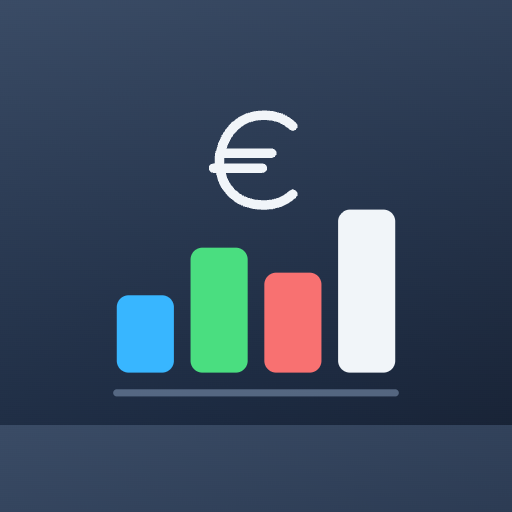
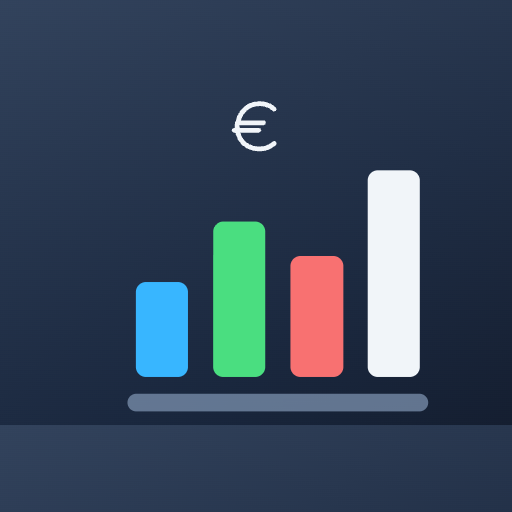
Mantener las proporciones del icono original de Finanzas

Changed region(s): [[0.2188, 0.1875, 0.8438, 0.8125]]

diff --git a/sw.js b/sw.js
@@ -2,19 +2,19 @@
 // y también sin conexión. Los datos (Firestore), el login (Google) y las cotizaciones (prices.json) nunca pasan por aquí.
 //
 // Sube la versión de CACHE cada vez que cambie la lista PRECACHE (por ejemplo al actualizar Chart.js o Firebase).
-const CACHE = "finanzas-v9";
+const CACHE = "finanzas-v10";
 const PRECACHE = [
   "./",
   "./index.html",
   "./firebase-config.js",
   "./push-config.js",
-  "./manifest.webmanifest?v=9",
+  "./manifest.webmanifest?v=10",
   "./icon-192.png",
-  "./icon-192.png?v=9",
-  "./icon-512.png?v=9",
-  "./icon-maskable.png?v=9",
+  "./icon-192.png?v=10",
+  "./icon-512.png?v=10",
+  "./icon-maskable.png?v=10",
   "./badge-96.png",
-  "./apple-touch-icon.png?v=9",
+  "./apple-touch-icon.png?v=10",
   "https://cdnjs.cloudflare.com/ajax/libs/Chart.js/4.5.1/chart.umd.min.js",
   "https://cdnjs.cloudflare.com/ajax/libs/limonte-sweetalert2/11.14.5/sweetalert2.all.min.js",
   "https://www.gstatic.com/firebasejs/12.19.0/firebase-app.js",

diff --git a/index.html b/index.html
@@ -6,9 +6,9 @@
 <meta name="color-scheme" content="light dark">
 <meta name="theme-color" media="(prefers-color-scheme: light)" content="#0f172a">
 <meta name="theme-color" media="(prefers-color-scheme: dark)" content="#0b1120">
-<link rel="manifest" href="manifest.webmanifest?v=9">
-<link rel="icon" href="icon-192.png?v=9" type="image/png">
-<link rel="apple-touch-icon" sizes="180x180" href="apple-touch-icon.png?v=9">
+<link rel="manifest" href="manifest.webmanifest?v=10">
+<link rel="icon" href="icon-192.png?v=10" type="image/png">
+<link rel="apple-touch-icon" sizes="180x180" href="apple-touch-icon.png?v=10">
 <meta name="apple-mobile-web-app-capable" content="yes">
 <meta name="apple-mobile-web-app-status-bar-style" content="black-translucent">
 <meta name="apple-mobile-web-app-title" content="Mis Finanzas">
